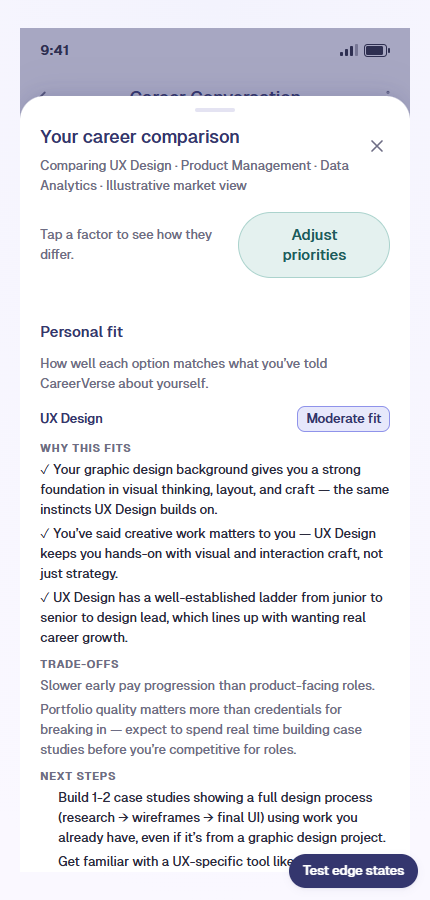
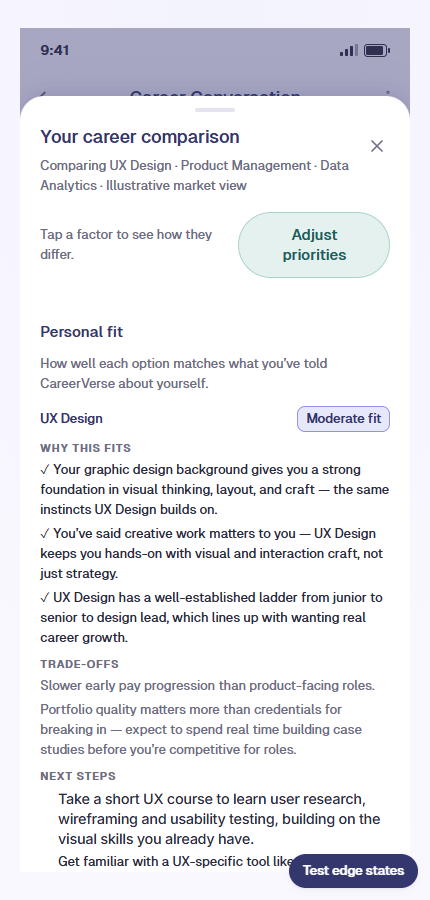
CareerVerse: update Next Steps text in Change 03 screen

Changed region(s): [[0.1209, 0.8711, 0.907, 0.9644]]

diff --git a/careerverse.html b/careerverse.html
@@ -593,7 +593,7 @@ document.addEventListener('DOMContentLoaded', function () {
   <div style="max-width:760px;margin:0 auto">
     <span class="pt-eyebrow">07 · Iteration: before &amp; after</span>
     <h2 style="margin:18px 0 16px;font-family:'Protest Riot',sans-serif;font-weight:300;font-size:clamp(36px,5vw,48px);line-height:1.08;color:#261A15">Three findings became three visible changes</h2>
-    <p style="margin:0 0 24px;font-family:'Plus Jakarta Sans',sans-serif;font-size:16px;line-height:1.7;color:#4A4A4F"><strong style="color:#261A15">Real screens, not mockups.</strong> Every image below is a live capture from the actual CareerVerse build (a mock-data MVP). The "before" comparison screen predates the Add/Replace feature; the "after" screens were captured by scripting the real conversation.</p>
+    <p style="margin:0 0 24px;font-family:'Plus Jakarta Sans',sans-serif;font-size:16px;line-height:1.7;color:#4A4A4F"><strong style="color:#261A15">Screens from the CareerVerse build</strong> (a mock-data MVP). The "before" comparison screen predates the Add/Replace feature; the "after" screens were captured by scripting the real conversation. The Next Steps text in the last screen was updated for this case study.</p>
     <div style="display:grid;gap:20px">
       <div style="background:#FFFFFF;border-radius:24px;padding:28px;box-shadow:0 8px 30px rgba(38,26,21,0.07)">
         <div style="font-family:'Plus Jakarta Sans';font-size:11px;font-weight:700;letter-spacing:0.12em;text-transform:uppercase;color:#E14F8E;margin-bottom:4px">Change 01</div>
@@ -688,7 +688,7 @@ document.addEventListener('DOMContentLoaded', function () {
 <footer style="background:#261A15;border-top:1px solid rgba(243,239,230,0.12);padding:28px 24px">
   <div style="max-width:1120px;margin:0 auto;display:flex;justify-content:space-between;gap:16px;flex-wrap:wrap;align-items:center">
     <div style="font-family:'Protest Riot',sans-serif;font-size:15px;color:#B9AEA4">CAREERVERSE<span style="color:#E14F8E">.</span> case study</div>
-    <div style="font-family:'Playfair Display',Georgia,serif;font-style:italic;font-size:14px;color:#B9AEA4">A tested, iterated prototype. Every screen shown is from the real build.</div>
+    <div style="font-family:'Playfair Display',Georgia,serif;font-style:italic;font-size:14px;color:#B9AEA4">A tested, iterated prototype.</div>
   </div>
 </footer>
 </x-dc>
